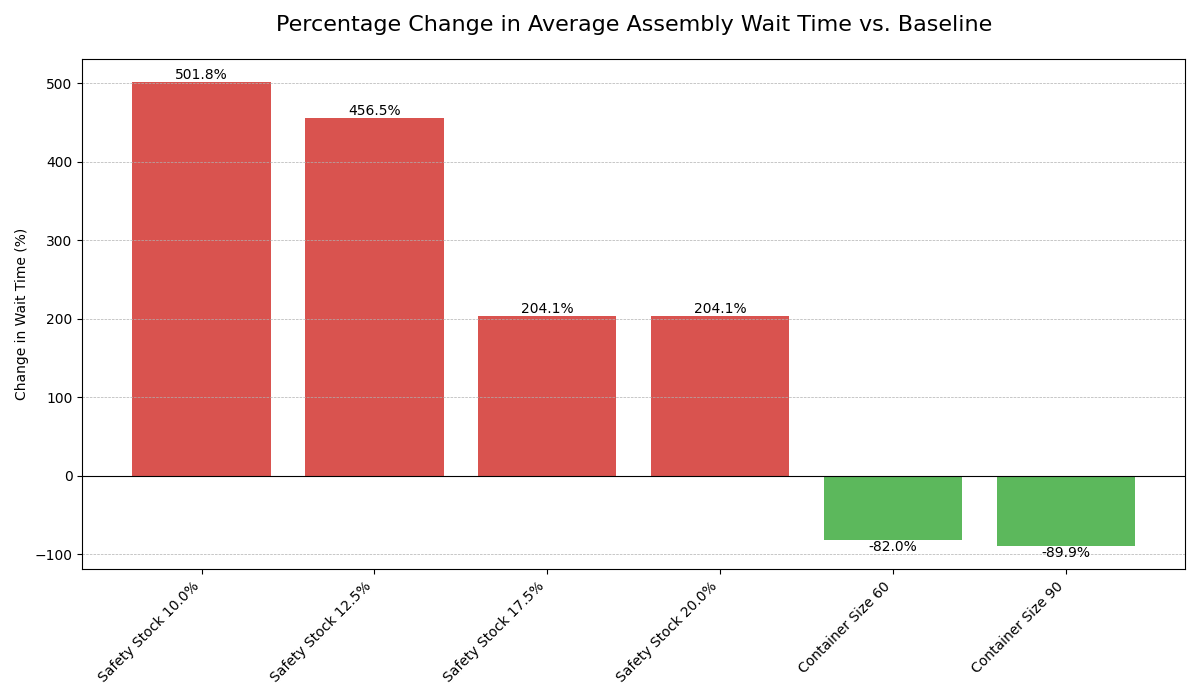
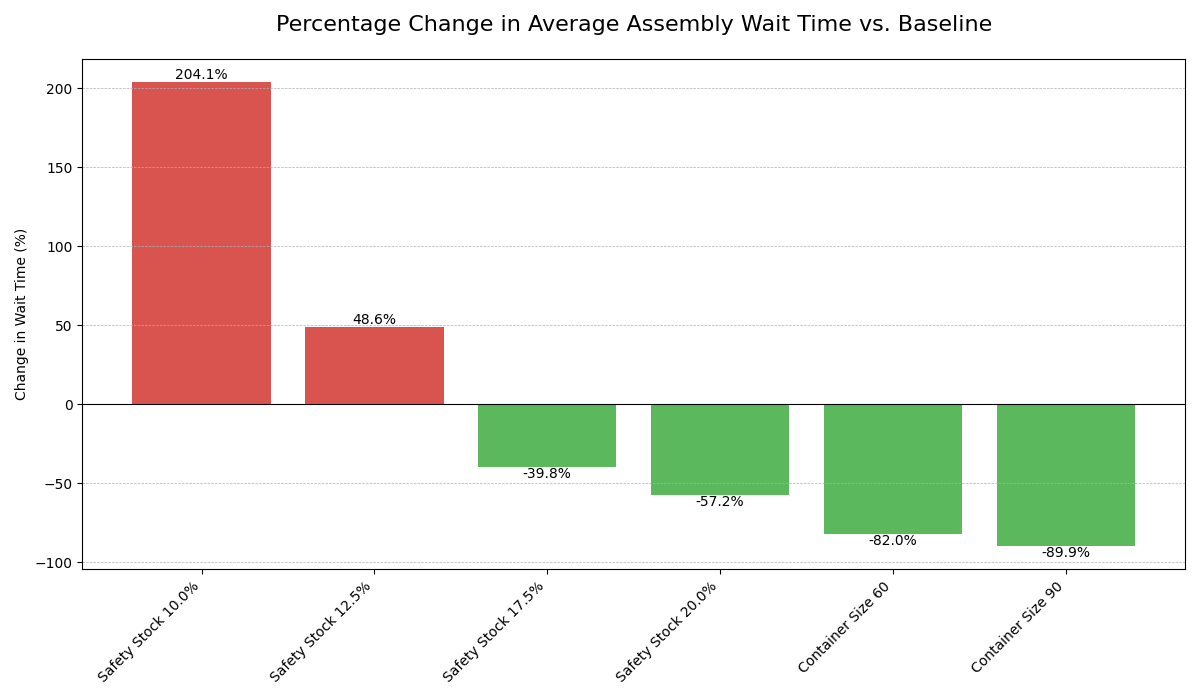
fixed task 2 safety threshold calculation

diff --git a/a2/burgenerator_storage.py b/a2/burgenerator_storage.py
@@ -102,6 +102,7 @@ class Burgenerator:
             yield self.container[name].put(amount)
             refill_end = self.env.now
             self.timeline_events.append({
+                'stage': 'helper_work',
                 'start': refill_start,
                 'end': refill_end,
                 'resource': 'helper'
@@ -167,7 +168,7 @@ def _container_monitor(env, burgenerator):
                 'level': container.level
             })
             
-        reorder_threshold = c.CONTAINER_SIZE * c.REORDER_THRESHOLD
+        reorder_threshold = c.CONTAINER_SIZE * 2 * c.SAFETY_STOCK_THRESHOLD
 
         for name in burgenerator.container:
             if name in burgenerator.pending_refill:
@@ -315,14 +316,14 @@ def _analyze_results(burgenerator):
 
     return stats
 
-def run_single_simulation(seed, container_size=c.CONTAINER_SIZE, reorder_threshold=c.REORDER_THRESHOLD):
+def run_single_simulation(seed, container_size=c.CONTAINER_SIZE, safety_stock=c.SAFETY_STOCK_THRESHOLD):
     """Runs a single simulation with a set seed."""
     np.random.seed(seed)
     global GEN
     GEN = np.random.default_rng(seed)
 
-    original_reorder_threshold = c.REORDER_THRESHOLD
-    c.REORDER_THRESHOLD = reorder_threshold
+    original_safety_stock = c.SAFETY_STOCK_THRESHOLD
+    c.SAFETY_STOCK_THRESHOLD = safety_stock
     
     env = simpy.Environment()
     burgenerator = Burgenerator(env, container_size=container_size)
@@ -331,7 +332,7 @@ def run_single_simulation(seed, container_size=c.CONTAINER_SIZE, reorder_thresho
     env.process(_incoming_orders(env, burgenerator))
     env.run(until=3 * c.ORDER_TIME) # cuts the simulation after a set amount of time to prevent the resources getting stuck at the end
 
-    c.REORDER_THRESHOLD = original_reorder_threshold
+    c.SAFETY_STOCK_THRESHOLD = original_safety_stock
     
     return burgenerator
 
@@ -342,20 +343,20 @@ def log_print(*args, **kwargs):
         f.write(message + ('\n' if not kwargs.get('end') else ''))
     print(*args, **kwargs)
 
-def run_and_analyze_scenario(container_size=c.CONTAINER_SIZE, reorder_threshold=c.REORDER_THRESHOLD, return_levels=False):
+def run_and_analyze_scenario(container_size=c.CONTAINER_SIZE, safety_stock=c.SAFETY_STOCK_THRESHOLD, return_levels=False):
     """Runs a set of simulations for a given scenario and returns aggregated results."""
     all_results = []
     container_levels_for_first_run = None
     for i in range(c.N_SIMS):
         seed = c.SEED + i
-        burgenerator = run_single_simulation(seed, container_size, reorder_threshold)
+        burgenerator = run_single_simulation(seed, container_size, safety_stock)
         if i == 0 and return_levels:
             container_levels_for_first_run = burgenerator.container_levels
         all_results.append(_analyze_results(burgenerator))
 
     df = pd.DataFrame(all_results)
 
-    aggregated_results = {
+    results = {
         'container_size': container_size,
         'avg_process_time_per_burger': df['avg_process_time_per_burger'].mean(),
         'avg_assembly_wait_time_for_refill': df['avg_assembly_wait_time_for_refill'].mean(),
@@ -363,34 +364,31 @@ def run_and_analyze_scenario(container_size=c.CONTAINER_SIZE, reorder_threshold=
     }
 
     if return_levels:
-        aggregated_results['container_levels'] = container_levels_for_first_run
+        results['container_levels'] = container_levels_for_first_run
 
-    return aggregated_results
+    return results
 
 
 def run_and_collect_scenario_results(return_levels=False):
     """Runs all scenarios and collects their results."""
     all_scenario_results = []
 
-    # Baseline
-    baseline_results = run_and_analyze_scenario(reorder_threshold=c.REORDER_THRESHOLD, return_levels=return_levels)
+    baseline_results = run_and_analyze_scenario(safety_stock=c.SAFETY_STOCK_THRESHOLD, return_levels=return_levels)
     all_scenario_results.append({
         'name': 'Baseline',
         'results': baseline_results,
         'type': 'baseline'
     })
 
-    # Thresholds
     thresholds = [0.10, 0.125, 0.175, 0.20]
     for thresh in thresholds:
-        results = run_and_analyze_scenario(reorder_threshold=thresh, return_levels=return_levels)
+        results = run_and_analyze_scenario(safety_stock=thresh, return_levels=return_levels)
         all_scenario_results.append({
             'name': f'Safety Stock {thresh:.1%}',
             'results': results,
             'type': 'threshold'
         })
 
-    # Capacities
     capacities = [60, 90]
     for cap in capacities:
         results = run_and_analyze_scenario(container_size=cap, return_levels=return_levels)

diff --git a/a2/timeline_chart.py b/a2/timeline_chart.py
@@ -40,7 +40,8 @@ C_MAP = {
     'assembly_wait_for_refill': '#ffb14e',
     'assembly_wait': '#d1a7ef',
     'assembly_work': '#ba55aa',
-    'assembly_packing': '#840853'
+    'assembly_packing': '#840853',
+    'helper_work': '#bebedd'
 }
 
 C_MAP_THRESHOLD = {

diff --git a/a2/config.py b/a2/config.py
@@ -55,7 +55,6 @@ FAIL_PROB = 0.05
 FRIES_PROB = 0.5
 
 SAFETY_STOCK_THRESHOLD = 0.15
-REORDER_THRESHOLD = 0.3
 
 N_SIMS = 500
 
